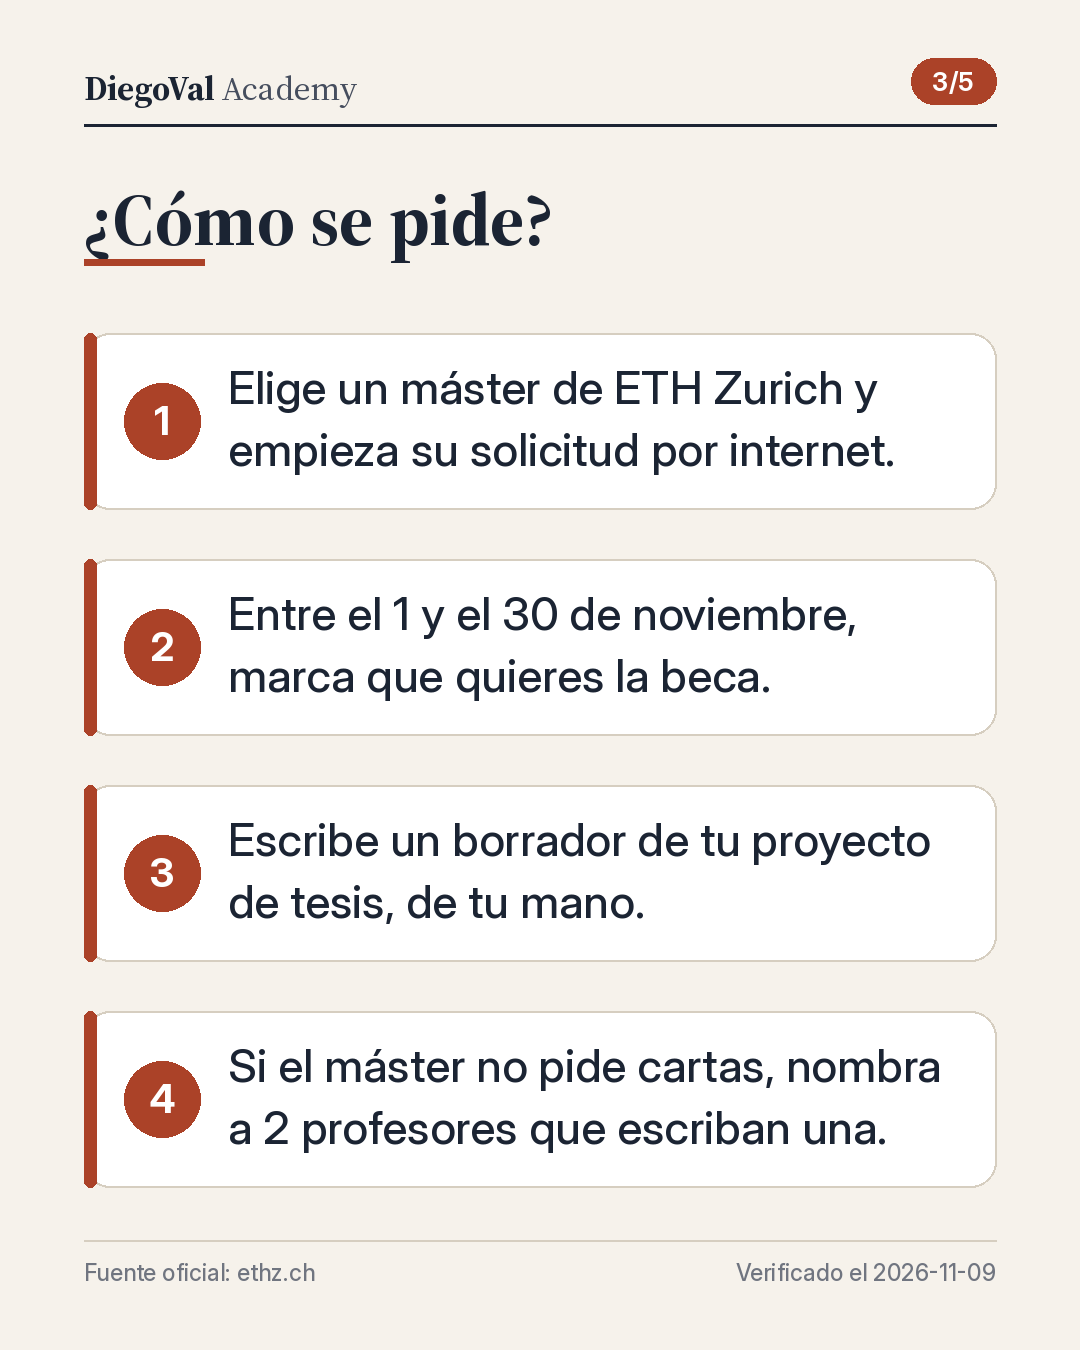
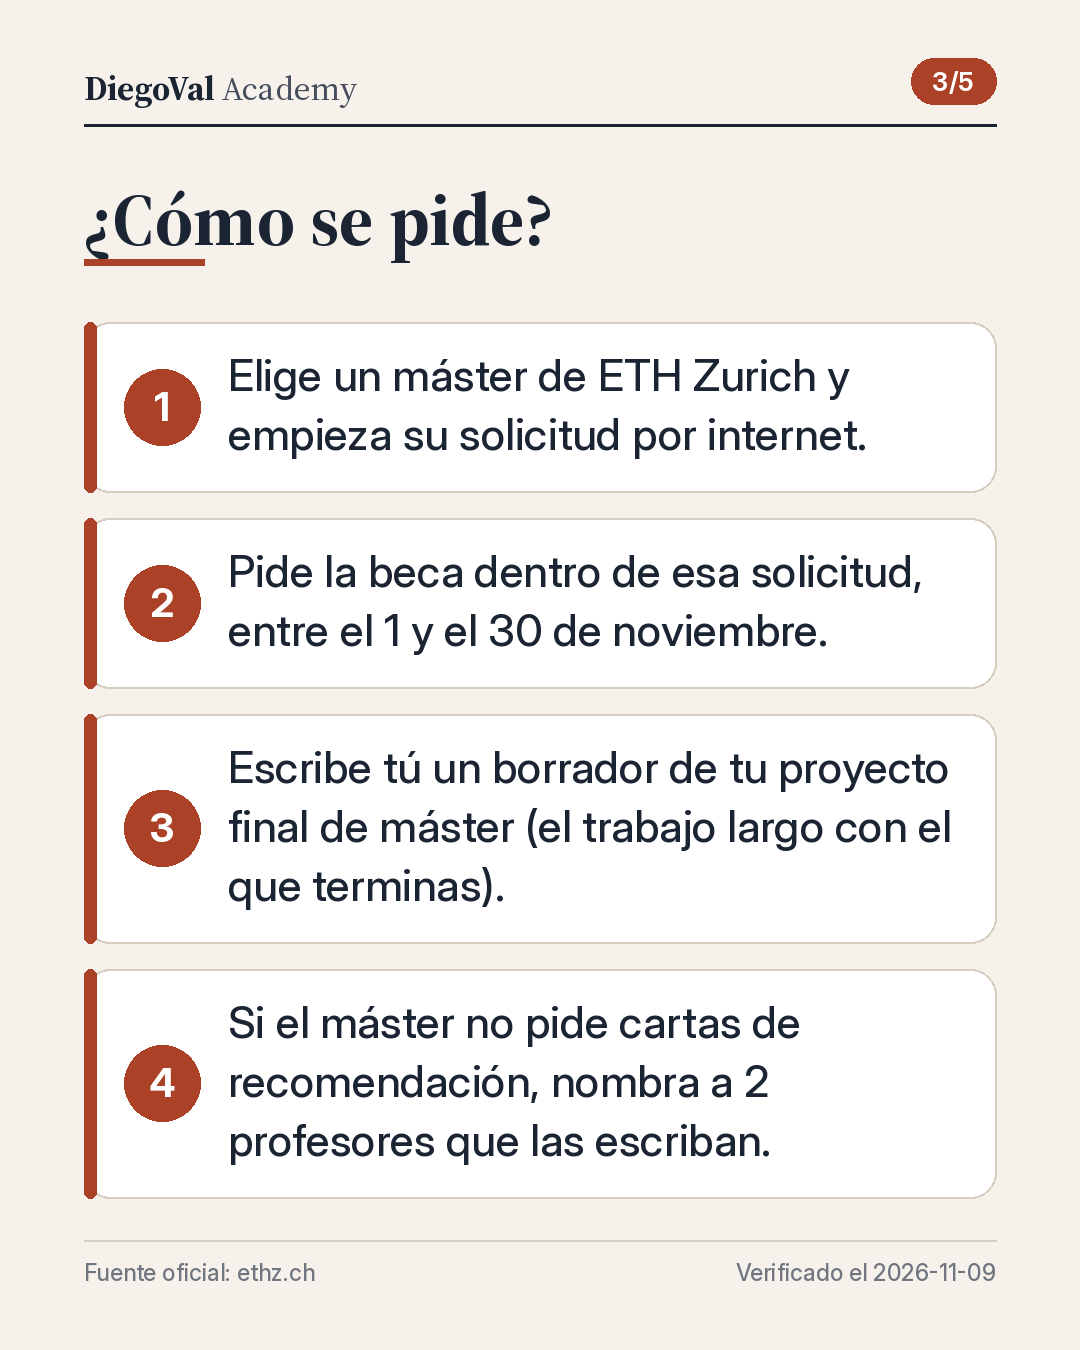
2026-11-09_lunes_eth: textos corregidos (siglas, lenguaje sencillo)
Claude-Session: https://claude.ai/code/session_01HRCw36LMgABrgBfUKMq1t2

diff --git a/posts/2026-11-09_lunes_eth-beca-excelencia-master/caption.md b/posts/2026-11-09_lunes_eth-beca-excelencia-master/caption.md
@@ -1,17 +1,17 @@
-¿Quieres hacer un máster en Suiza con beca? ETH Zurich, una universidad técnica muy conocida, abre su beca de excelencia hasta el 30 de noviembre.
+¿Quieres hacer un máster en Suiza con beca? La Escuela Politécnica Federal de Zúrich (ETH) abre su beca de excelencia hasta el 30 de noviembre.
 
 En corto:
-• Qué da: 13 500 francos suizos por semestre (medio año) y no pagas matrícula. Dura todo el máster (3 o 4 semestres).
-• Quién: quien empiece un máster en ETH Zurich en otoño de 2027 con una carrera entre el 10 % mejor. No pueden pedirla quienes ya tienen un máster. La página oficial no menciona límites de nacionalidad.
-• Plazo: del 1 al 30 de noviembre de 2026, hasta las 23:59 (hora de Suiza). Se dan unas 60 becas; resultados a finales de marzo.
+• Qué da: 13 500 francos suizos por semestre (medio año) y no pagas matrícula hasta acabar el máster (3 o 4 semestres).
+• Quién: quien empiece un máster allí en otoño de 2027 con notas del grado entre el 10 % mejor (lo estimas tú). No pueden pedirla quienes ya tienen un máster. La página oficial no menciona límites de nacionalidad.
+• Plazo: del 1 al 30 de noviembre de 2026, hasta las 23:59 (hora de Suiza). Hay unas 60 becas, según los fondos; resultados a finales de marzo.
 
-Por qué es conocida: ETH Zurich es una de las universidades técnicas más conocidas de Europa.
+Por qué es conocida: es el programa oficial de becas de máster de esta universidad, cada año.
 
-Lo que pocos explican: la beca no se pide aparte. Va dentro de la solicitud al máster y solo en ese mes. Necesitas un borrador de tu proyecto de tesis, escrito por ti.
+Lo que pocos explican: la beca no se pide aparte. Va dentro de la solicitud al máster y solo en ese mes. Te piden un borrador de tu proyecto final de máster (el trabajo largo con el que terminas), escrito por ti.
 
 Cómo empezar:
 1. Elige un máster de ETH Zurich y abre su solicitud por internet.
-2. Escribe el borrador de tu proyecto de tesis.
+2. Escribe el borrador de tu proyecto final.
 3. Si tu máster no pide cartas de recomendación, nombra a 2 profesores.
 
 Información oficial: https://ethz.ch/students/en/studies/financial/scholarships/excellencescholarship.html

diff --git a/posts/2026-11-09_lunes_eth-beca-excelencia-master/validation.md b/posts/2026-11-09_lunes_eth-beca-excelencia-master/validation.md
@@ -1,0 +1,29 @@
+# Validación — 2026-11-09_lunes_eth-beca-excelencia-master
+
+Ejecutado: 2026-11-09T07:14:02+01:00
+Decisión: **BLOQUEADA: no publicar**
+
+| Estado | Comprobación | Detalle |
+|---|---|---|
+| PASS | Archivos obligatorios | imagen: post.json, post.png, caption.md, sources.md, metadata.json |
+| PASS | Metadatos | campos obligatorios presentes |
+| PASS | Imagen | 1080x1350 PNG, 1 archivo (+5 diapositivas de carrusel, ignoradas) |
+| PASS | Canal Buffer | DiegoVal Academy (6ae0bdf22f1f5ed648eb92f9) |
+| PASS | Verificación del día | 2026-11-09 |
+| PASS | Longitud del texto | 1299/1300 caracteres |
+| PASS | Fecha visible en el texto | Verificado el: 2026-11-09 |
+| PASS | Marcadores pendientes | ninguno |
+| PASS | Enlaces documentados en sources.md | 1 enlaces |
+| PASS | Enlace principal en el texto | https://ethz.ch/students/en/studies/financial/scholarships/excellencescholarship.html |
+| PASS | Lo que pocos explican | presente en imagen y texto |
+| PASS | Sin URLs en la imagen | sólo dominio de la fuente |
+| PASS | Lenguaje sencillo: siglas (texto) | todas explicadas o ninguna |
+| PASS | Lenguaje sencillo: palabras difíciles (texto) | sin burocracia ni calcos detectados |
+| PASS | Lenguaje sencillo: siglas (imagen) | todas explicadas o ninguna |
+| PASS | Lenguaje sencillo: palabras difíciles (imagen) | sin burocracia ni calcos detectados |
+| PASS | Lenguaje sencillo: frases largas | todas ≤ 32 palabras |
+| FAIL | Lenguaje sencillo: revisión del verificador | falta metadata.plain_language_check con la pregunta exacta, answer 'sí', reviewer y checked_text_sha256 (python3 scripts/validate_post.py <carpeta> --plain-hash) |
+| PASS | Evidencia de popularidad | 1 señales documentadas |
+| PASS | Plazo | 2026-11-30T23:59:00+01:00 (quedan 21 días) |
+| PASS | Duplicados | sin repeticiones en 18 filas de todas las plataformas (URL canónica, topic_key y vídeo; mismo día en otra red permitido) |
+| PASS | Enlace accesible | 200 https://ethz.ch/students/en/studies/financial/scholarships/excellencescholarship.html |

diff --git a/posts/2026-11-09_lunes_eth-beca-excelencia-master/validation_instagram.md b/posts/2026-11-09_lunes_eth-beca-excelencia-master/validation_instagram.md
@@ -1,0 +1,24 @@
+# Validación Instagram — 2026-11-09_lunes_eth-beca-excelencia-master
+
+Ejecutado: 2026-11-09T07:14:03+01:00
+Decisión: **BLOQUEADA: no publicar**
+
+| Estado | Comprobación | Detalle |
+|---|---|---|
+| PASS | Archivos obligatorios | 5 imágenes + caption + carousel.json |
+| FAIL | Base verificada (LinkedIn) | falta validation.md APROBADA: el carrusel reutiliza esa investigación |
+| PASS | Imágenes 1080×1350 PNG | 5 imágenes correctas |
+| PASS | Imágenes actualizadas | generadas desde el carousel.json actual |
+| PASS | Imágenes sin URL completa | sólo dominios |
+| PASS | Fecha de verificación | 2026-11-09 |
+| PASS | Caption breve | 499 caracteres (máx. 1000) |
+| PASS | Hashtags | 4 (rango 3-8) |
+| PASS | Verificado el | 2026-11-09 |
+| PASS | Lenguaje sencillo: siglas (texto) | todas explicadas o ninguna |
+| PASS | Lenguaje sencillo: palabras difíciles (texto) | sin burocracia ni calcos detectados |
+| PASS | Lenguaje sencillo: siglas (imagen) | todas explicadas o ninguna |
+| PASS | Lenguaje sencillo: palabras difíciles (imagen) | sin burocracia ni calcos detectados |
+| PASS | Lenguaje sencillo: frases largas | todas ≤ 32 palabras |
+| FAIL | Lenguaje sencillo: revisión del verificador | falta metadata.instagram.plain_language_check (pregunta exacta, answer 'sí', reviewer, checked_text_sha256 = python3 scripts/validate_carousel.py <carpeta> --plain-hash) |
+| PASS | Duplicados (Instagram) | sin repeticiones en ninguna plataforma (mismo día en LinkedIn permitido) |
+| PASS | Verificación de hoy | 2026-11-09 |

diff --git a/posts/2026-11-09_lunes_eth-beca-excelencia-master/caption_instagram.md b/posts/2026-11-09_lunes_eth-beca-excelencia-master/caption_instagram.md
@@ -1,12 +1,12 @@
 ¿Quieres un máster en Suiza con beca? 🇨🇭
 
-ETH Zurich, una universidad técnica muy conocida, da una beca de excelencia.
+La Escuela Politécnica Federal de Zúrich (ETH), universidad de Suiza, da una beca de excelencia.
 
 ✅ 13 500 francos suizos por semestre y sin matrícula
 ✅ Plazo: 30 de noviembre de 2026, hasta las 23:59 (hora de Suiza)
-✅ Se pide junto con la solicitud al máster, solo del 1 al 30 de noviembre
+✅ Se pide dentro de la solicitud al máster, del 1 al 30 de noviembre
 
-Esta semana: elige tu máster y escribe el borrador de tu proyecto de tesis. Información oficial en ethz.ch
+Esta semana: elige tu máster y escribe el borrador de tu proyecto final. Información oficial en ethz.ch
 
 Verificado el: 2026-11-09
 
